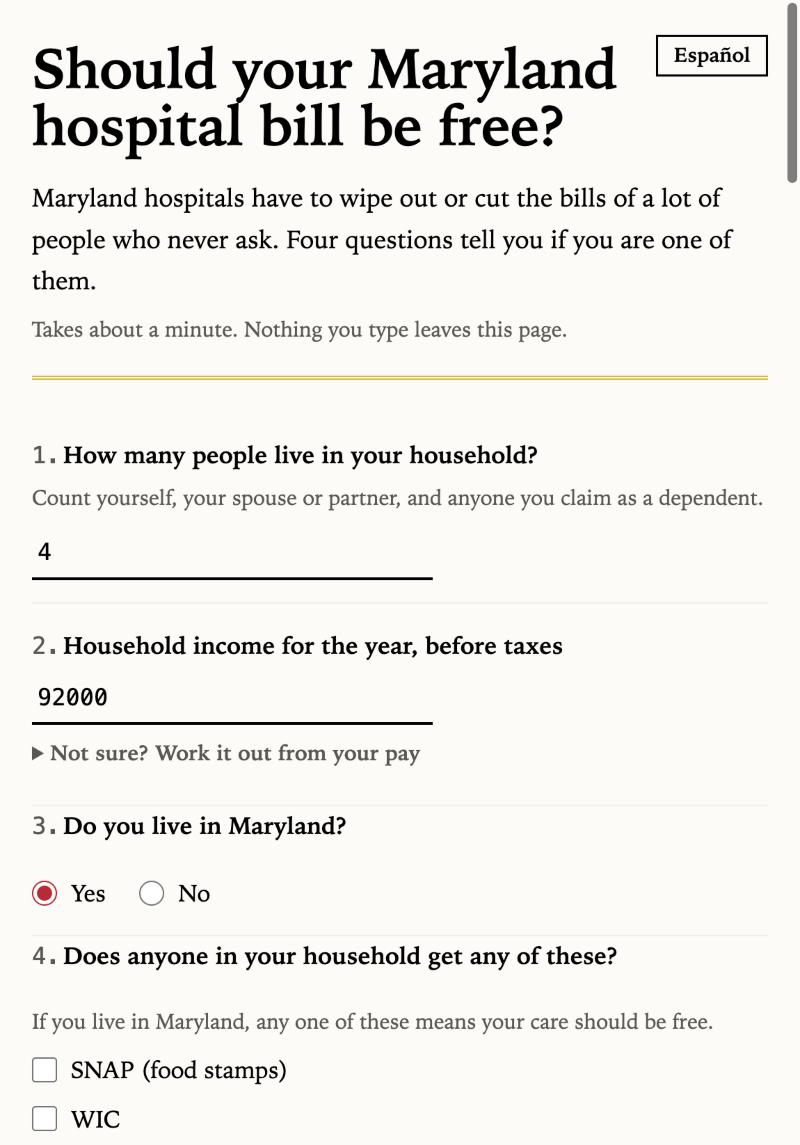
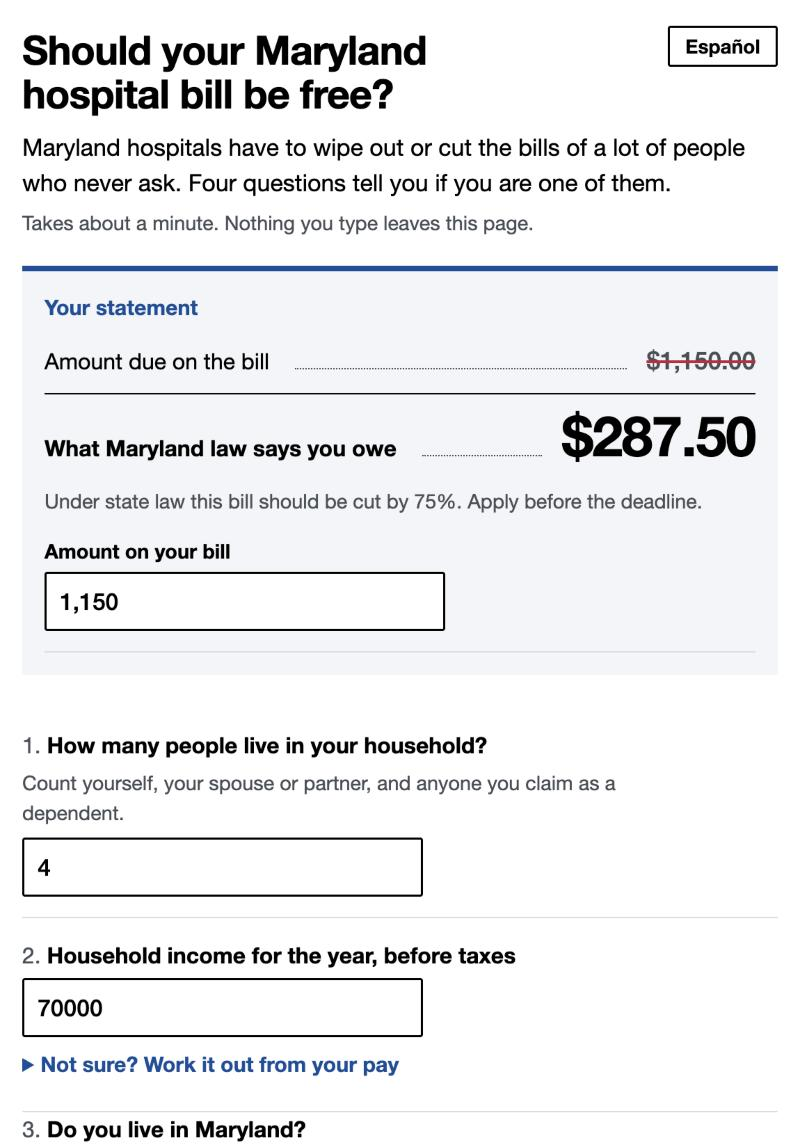
docs: screenshots of the redesigned page

diff --git a/README.md b/README.md
@@ -5,8 +5,8 @@ Should your Maryland hospital bill be free? A one-page checker that answers in a
 Live: https://akadigari.github.io/freecare/
 
 <p align="center">
-  <img src="docs/screenshots/questions.jpg" width="31%" alt="The four questions, numbered like a paper form">
-  <img src="docs/screenshots/result.jpg" width="31%" alt="A result stamped FREE, with the hospital's own policy explained">
+  <img src="docs/screenshots/questions.jpg" width="31%" alt="The statement block: the amount on the bill struck through, and what Maryland law says you owe">
+  <img src="docs/screenshots/result.jpg" width="31%" alt="The result: the reasoning, the deadline, what to bring">
   <img src="docs/screenshots/rights.jpg" width="31%" alt="What the hospital can't do to you, in three situations">
 </p>
 
@@ -91,7 +91,7 @@ python3 -m http.server 8780   # then open http://localhost:8780
 | `.github/workflows/test.yml` | Runs the tests on every push |
 | `vendor/pdf-lib/` | pdf-lib 1.17.1 (MIT), used to fill the form in the browser. Loads only when someone fills the application |
 | `vendor/tesseract/` | tesseract.js 7.0.0 and tesseract.js-core 7.0.0 (Apache-2.0), LSTM builds only, plus the fast English model from tessdata. Loads only when someone picks a photo |
-| `src/app.js`, `index.html`, `src/styles.css` | The page. System fonts, no outside requests |
+| `src/app.js`, `index.html`, `src/styles.css` | The page, set like a printed statement. System fonts, no outside requests |
 
 ## Engineering notes
 
@@ -100,6 +100,7 @@ python3 -m http.server 8780   # then open http://localhost:8780
 - **The law is code with its source next to it.** `rules.js` carries the statute sections. `poverty.js` carries the year and a test pins the table. `policies.js` carries each hospital's policy date. Each sentence in the rights block carries the subsection it rests on, in a comment.
 - **The English on the page is the English in the strings file.** A test diffs them, so a Spanish translation can never sit under a stale English line.
 - **Recognized text never fills a field by itself.** Every finding from the bill reader shows with a "Use this" button. A wrong hospital or a wrong date does harm, so the person confirms each one.
+- **The page is the bill, corrected.** The first screen is a statement block: the amount due struck through, and under it what the law says you owe, in dollars once the person types their bill amount. It is set in one plain grotesque on white, the way a printed statement is, because that is the object a patient is holding.
 - **Small things that would have been bugs.** The yes or no questions on the state PDF are radio groups where the left box is Yes, found by dumping widget positions and pinned by a test. Date math is date-only, in UTC, with a test that crosses a daylight-saving change. The percent of the poverty line rounds up, so an income just over a cutoff never reads as "at" it.
 - **Reading 19 policies.** Fifteen are text. Four are scanned images; those were read with a 30-line Swift script on Apple's built-in text recognition, then checked by eye against the pages. The script is not in this repo.
 
